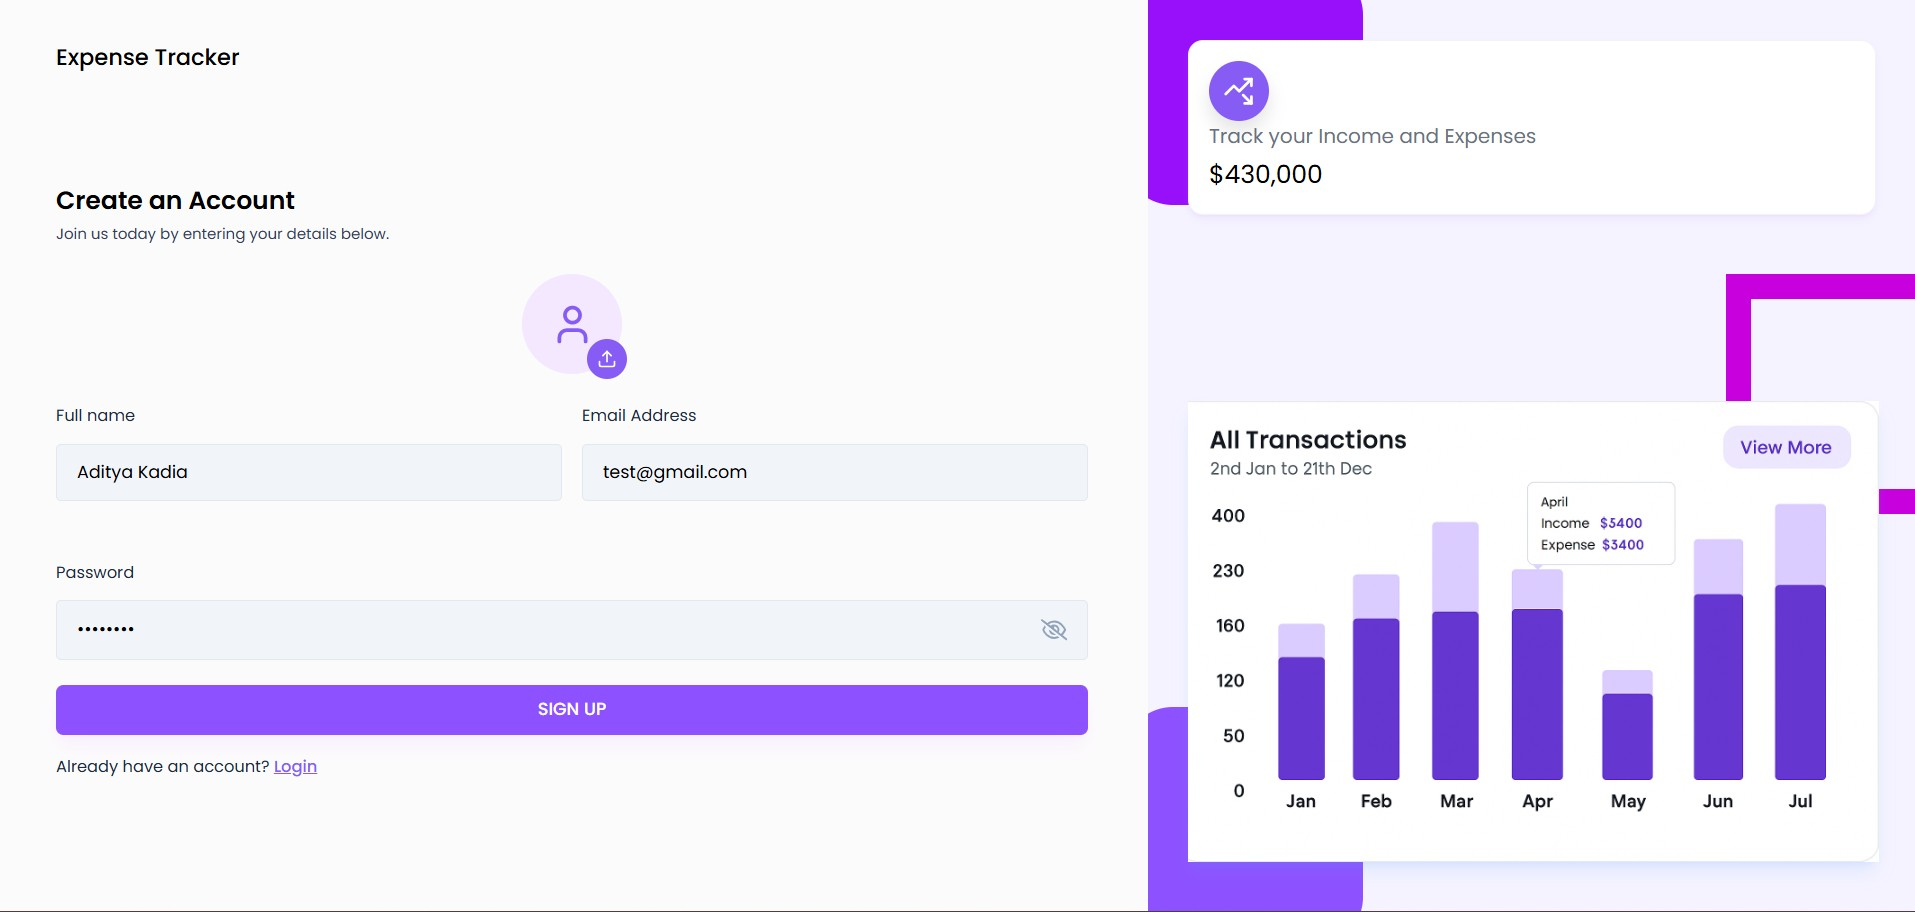
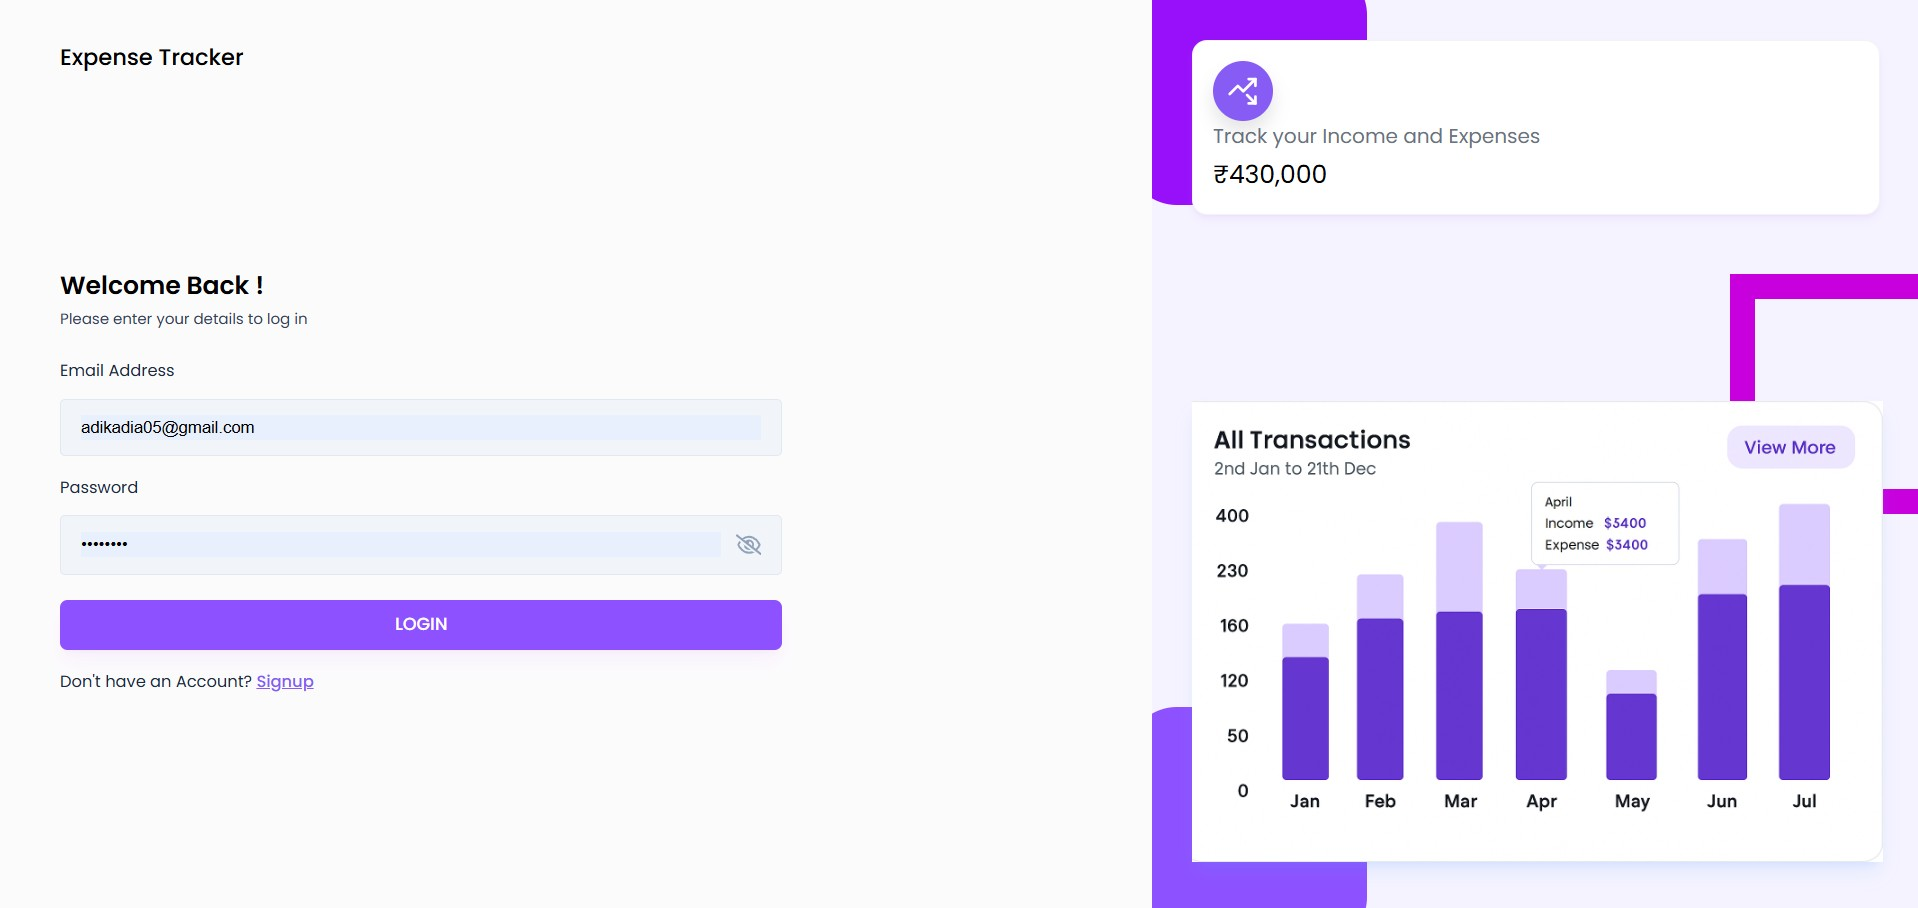
Addes images for Expense Tracker

diff --git a/src/lib/portfolioData.js b/src/lib/portfolioData.js
@@ -99,6 +99,7 @@ export const portfolioData = {
       description: "Android grocery management app with Firebase integration, smart categorization, and low-stock reminders. Built with Android framework and XML layouts.",
       technologies: ["Android", "Firebase", "XML", "Java"],
       githubUrl: "https://github.com/nerdyADITYA/SmartGrocer",
+      liveUrl: "",
         images: [
           new URL('../attached_assets/smartgrocer-1.jpg', import.meta.url).href,
           new URL('../attached_assets/smartgrocer-2.jpg', import.meta.url).href,
@@ -123,6 +124,7 @@ export const portfolioData = {
       description: "ML-powered crop prediction system using agricultural and environmental data",
       technologies: ["Python", "Django", "Machine Learning", "Pandas"],
       githubUrl: "https://github.com/nerdyADITYA/Agro_Analytics",
+      liveUrl: "",
       images: [
         new URL('../attached_assets/agroanalytics-1.jpg', import.meta.url).href,
         new URL('../attached_assets/agroanalytics-2.jpg', import.meta.url).href,
@@ -137,13 +139,23 @@ export const portfolioData = {
       description: "Full-stack personal finance app offering real-time dashboards, interactive charts, and secure income-expense tracking",
       technologies: ["Node.js", "Express", "MongoDB", "React", "Tailwind CSS", "JWT"],
       githubUrl: "https://github.com/nerdyADITYA/Expense-Tracker",
-      images: []
+      liveUrl: "",
+      images: [new URL('../attached_assets/expensetracker-1.jpg', import.meta.url).href,
+        new URL('../attached_assets/expensetracker-2.jpg', import.meta.url).href,
+        new URL('../attached_assets/expensetracker-3.jpg', import.meta.url).href,
+        new URL('../attached_assets/expensetracker-4.jpg', import.meta.url).href,
+        new URL('../attached_assets/expensetracker-5.jpg', import.meta.url).href,
+        new URL('../attached_assets/expensetracker-6.jpg', import.meta.url).href,
+        new URL('../attached_assets/expensetracker-7.jpg', import.meta.url).href,
+        new URL('../attached_assets/expensetracker-8.jpg', import.meta.url).href
+      ]
     },
     {
       title: "F1 Podium Predictor",
       description: "Dual-model ML Django app predicting F1 podium finishes and final positions using 2024 race data",
       technologies: ["Python", "Django", "scikit-learn", "pandas", "numpy", "RandomForest"],
       githubUrl: "https://github.com/nerdyADITYA/F1-Podium-Predictor",
+      liveUrl: "",
       images: [new URL('../attached_assets/f1-1.jpg', import.meta.url).href,
         new URL('../attached_assets/f1-2.jpg', import.meta.url).href,
         new URL('../attached_assets/f1-3.jpg', import.meta.url).href,
@@ -156,6 +168,7 @@ export const portfolioData = {
       description: "Full-stack hangman game with programming-themed words, user authentication, score tracking, and leaderboards",
       technologies: ["React", "Vite", "Tailwind CSS", "Express.js", "MongoDB", "JWT"],
       githubUrl: "https://github.com/nerdyADITYA/Programming-Hangman-Game",
+      liveUrl: "",
       images: []
     },
     {
@@ -163,6 +176,7 @@ export const portfolioData = {
       description: "CLI-based score tracking system built with Python. Features file handling, data persistence, and portable design with minimal dependencies.",
       technologies: ["Python", "CLI", "File I/O"],
       githubUrl: "https://github.com/nerdyADITYA/ScoreHubPython",
+      liveUrl: "",
       images: []
     },
     {
@@ -170,6 +184,7 @@ export const portfolioData = {
       description: "Web-based score management application with responsive design, local storage for offline capability, and dynamic score display functionality.",
       technologies: ["JavaScript", "HTML5", "CSS3", "Local Storage"],
       githubUrl: "https://github.com/nerdyADITYA/ScoreHub",
+      liveUrl: "",
       images: []
     },
     {
@@ -177,6 +192,7 @@ export const portfolioData = {
       description: "Python CLI card game suite featuring Blackjack, Old Maid, and War. Built with OOP principles, modular design, and standard Python libraries.",
       technologies: ["Python", "OOP", "Game Logic", "CLI"],
       githubUrl: "https://github.com/nerdyADITYA/GameCenter",
+      liveUrl: "",
       images: []
     }
   ],
